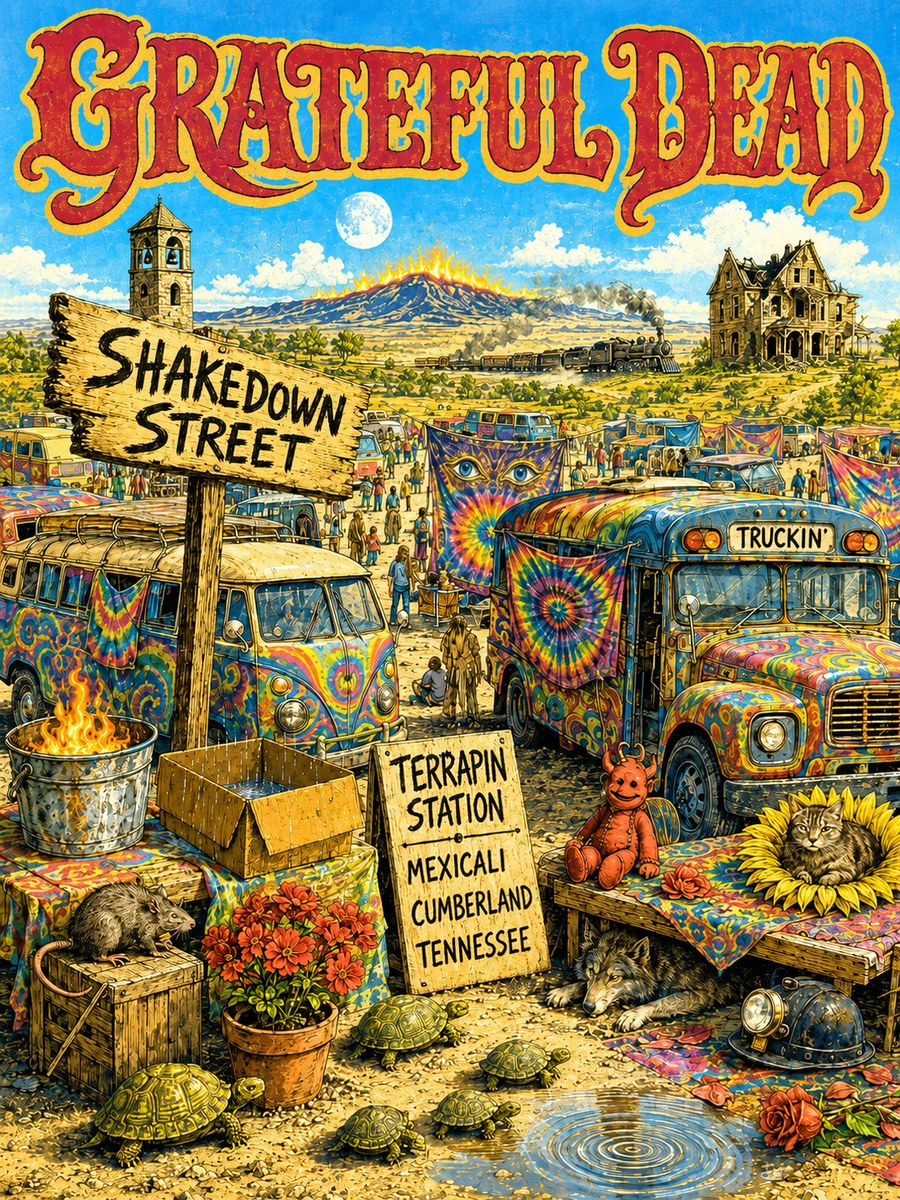
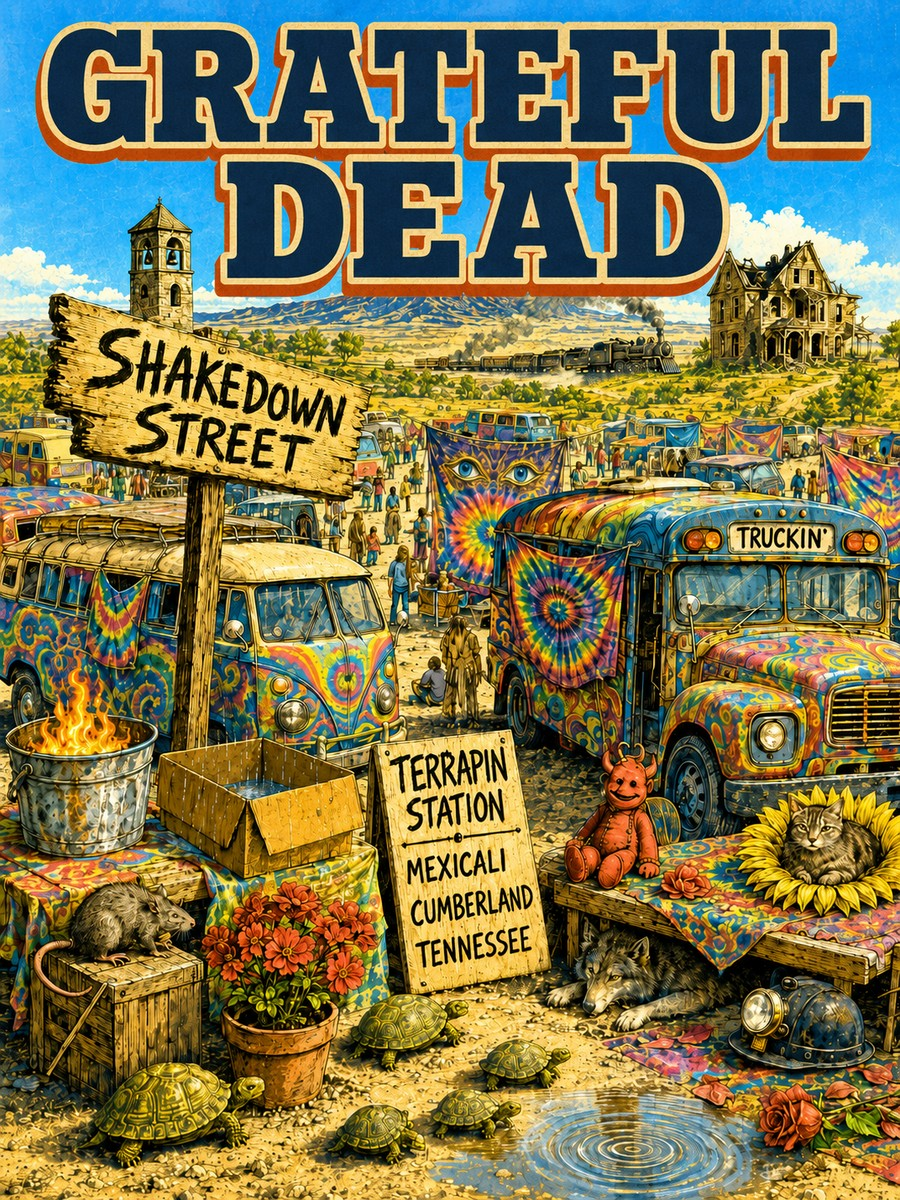
v252: Grateful Dead title redrawn away from their lettering
The old title was the bubbly red-and-yellow psychedelic wordmark with swashes -
the Dead's own lettering style, near enough. Now a navy slab serif with a red
outline, stacked on two lines, which reads as generic circus-poster type and
nothing like theirs.

This is the treatment test from v249 applied a second time, and by the person
who set it: the font was too close to their logo. No single device was being
copied - it was colour, weight, curve and swash together, which is exactly how a
logo is recognised.

Checked the rest of the poster at full resolution while it was open, because I
had this one at LOW confidence in the audit and wanted to know if I had
under-weighted something bigger:

  - the small orange doll on the bench is a horned, seam-stitched imp, NOT a
    Dancing Bear. Their bears are stylised marching bears, rounded ears, no
    horns, no grin. Different creature, cleared.
  - roses are present, the skull is not, so Steal Your Face stays absent.
  - every sign is a song title: Shakedown Street, Truckin', Terrapin Station,
    Mexicali, Cumberland, Tennessee.

531 KB. Scene, buses, signs and props otherwise unchanged.

Claude-Session: https://claude.ai/code/session_012avjdYG8yRCMZ3uJswRWwC

diff --git a/index.html b/index.html
@@ -911,7 +911,7 @@ function eraOf(v){ return ERA[v.id]||'neon'; }
    page arrives with ?open=, so the lookup returned '0' and every plate URL was busted
    with ?v=0 forever - an updated plate would never reach anyone who had opened that
    sheet once. Kept in step with the printed build tag by the release step. */
-var SFSBUILD='v251';
+var SFSBUILD='v252';
 var CARDART={"adele":{"o":"#F4A330"},"arianagrande":{"o":"#FFF6E0","l":1},"ate":{"o":"#DAA459"},"beatles":{"o":"#FFF6E0","l":1},"beyonce":{"o":"#FDB728"},"biggie":{"o":"#FDC472"},"billieeilish":{"o":"#B9C709"},"billyjoel":{"o":"#DBB17D"},"bonjovi":{"o":"#FFF6E0","l":1},"bowie":{"o":"#F7AF7C"},"brunomars":{"o":"#FEA928"},"carrieunderwood":{"o":"#D9B87A"},"ccr":{"o":"#F2C772"},"chrisstapleton":{"o":"#F2BA7D"},"codyjohnson":{"o":"#85C9EB"},"coldplay":{"o":"#E9BA87"},"dmb":{"o":"#2A1305"},"dualipa":{"o":"#A3ABC1"},"eagles":{"o":"#261C12"},"edsheeran":{"o":"#ECAB84"},"ellalangley":{"o":"#F1987E"},"eminem":{"o":"#D1B99F"},"faithhill":{"o":"#F3A63D"},"fleetwoodmac":{"o":"#BEC5C8"},"foo":{"o":"#F69F6D"},"fthc":{"o":"#3D3717"},"gratefuldead":{"o":"#FFF6E0","l":1},"greenday":{"o":"#CEB799"},"grunge90s":{"o":"#EFC973"},"harrystyles":{"o":"#F99B37"},"hendrix":{"o":"#FFF6E0","l":1},"jasonaldean":{"o":"#EAAE5F"},"jellyroll":{"o":"#301407"},"justintimberlake":{"o":"#B1C1D3"},"katyperry":{"o":"#3DC2D8"},"kennychesney":{"o":"#F6C587"},"kidstoybox":{"o":"#002848"},"ladygaga":{"o":"#FFBD46"},"laineywilson":{"o":"#FFF6E0","l":1},"ledzeppelin":{"o":"#E6AE57"},"lukebryan":{"o":"#332818"},"lukecombs":{"o":"#F19F31"},"maroon5":{"o":"#642F09"},"metallica":{"o":"#EABE95"},"morganwallen":{"o":"#DB9D94"},"mv_action":{"o":"#F0AD51"},"mv_animated":{"o":"#FFF6E0","l":1},"mv_comedy":{"o":"#FFF6E0","l":1},"mv_crime":{"o":"#F0AF37"},"mv_drama":{"o":"#DCA969"},"mv_fantasy":{"o":"#FAAA41"},"mv_horror":{"o":"#DBC27D"},"mv_romance":{"o":"#FFF6E0","l":1},"mv_scifi":{"o":"#26BDF5"},"mv_sports":{"o":"#FFF6E0","l":1},"mv_superhero":{"o":"#1C1B26"},"mv_war":{"o":"#1F150C"},"nirvana":{"o":"#CACACB"},"oasis":{"o":"#DDBA92"},"onedirection":{"o":"#F4A62D"},"pearljam":{"o":"#FFF6E0","l":1},"postmalone":{"o":"#FBA874"},"queen":{"o":"#F1BE78"},"rhcp":{"o":"#FFF6E0","l":1},"rihanna":{"o":"#BBAB97"},"selenagomez":{"o":"#FFF6E0","l":1},"shaboozey":{"o":"#DEB177"},"smashingpumpkins":{"o":"#BCAEC2"},"springsteen":{"o":"#E6A59C"},"stones":{"o":"#FFF6E0","l":1},"stp":{"o":"#FFF6E0","l":1},"summerbeach":{"o":"#FFF6E0","l":1},"taylorswift":{"o":"#D4A26D"},"thewho":{"o":"#F0C382"},"timmcgraw":{"o":"#251C0A"},"tompetty":{"o":"#FFF6E0","l":1},"tv_binge":{"o":"#D9B87A"},"tv_cartoon":{"o":"#171F6C"},"tv_gameshow":{"o":"#000B4D"},"tv_growingup":{"o":"#86B6F7"},"tv_oldschool":{"o":"#D9B87A"},"tv_scifi":{"o":"#66BBF7"},"tv_sitcom":{"o":"#C8AE93"},"u2":{"o":"#7EC0F2"},"zachbryan":{"o":"#191F15"}};
 function coverHTML(v,label){
  var e=eraOf(v);
@@ -1489,4 +1489,4 @@ brandBarState();
  setTimeout(go, 1500);
 })();
 </script>
-<div id="buildtag">v251</div><style>#buildtag{position:fixed;left:5px;bottom:3px;z-index:99999;font:700 9px/1 system-ui,sans-serif;color:rgba(255,255,255,.30);pointer-events:none;letter-spacing:.5px}</style></body></html>
+<div id="buildtag">v252</div><style>#buildtag{position:fixed;left:5px;bottom:3px;z-index:99999;font:700 9px/1 system-ui,sans-serif;color:rgba(255,255,255,.30);pointer-events:none;letter-spacing:.5px}</style></body></html>

diff --git a/sw.js b/sw.js
@@ -1,4 +1,4 @@
-var CACHE='sfs-v251';
+var CACHE='sfs-v252';
 /* IMPORTANT: do NOT precache the HTML documents. If the app shell is cached, an installed PWA
    can launch straight from cache and bypass Cloudflare Access. Keeping only static assets here
    forces every page launch to hit the network, so the Access login is always enforced. */
